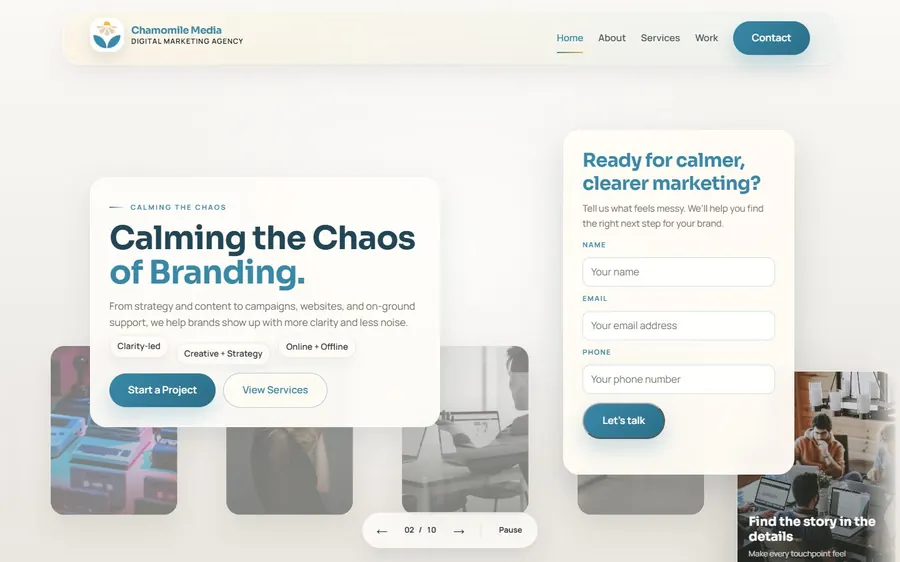
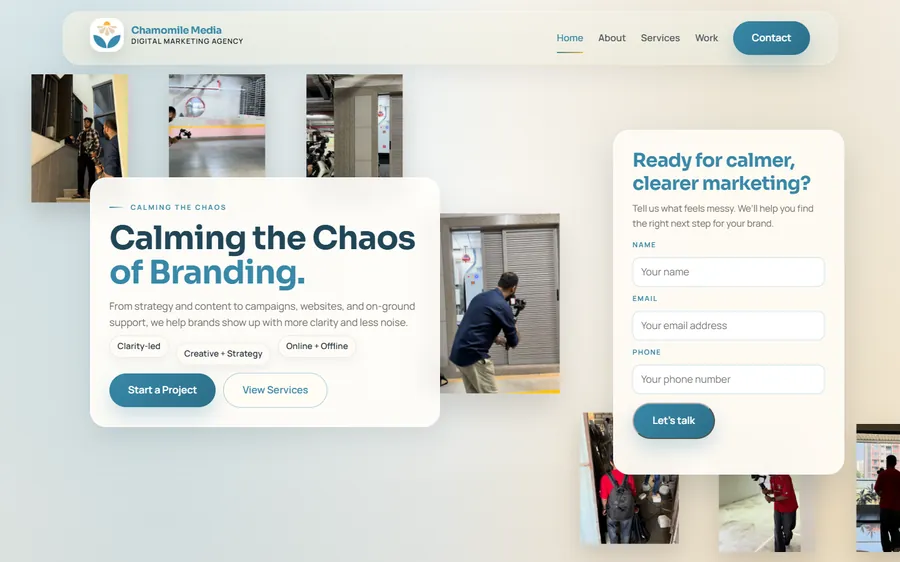
Chamomile Media: new screenshot and description for reworked homepage

diff --git a/index.html b/index.html
@@ -182,7 +182,7 @@
               <em class="status">In progress</em>
               <span>HTML / CSS / JS / Netlify</span>
               <h3>Chamomile Media</h3>
-              <p>Website for a digital marketing agency: a 3D gallery tunnel, client carousel, services and work pages, and an enquiry flow that writes leads to Google Sheets. Launching soon.</p>
+              <p>Website for a digital marketing agency: a hero photo carousel from real shoots, playable video formats, a client logo wall, and an enquiry flow that writes leads to Google Sheets. Launching soon.</p>
               <div class="build-links">
                 <a href="https://github.com/Raj-128/chamomile-media" target="_blank" rel="noopener noreferrer">GitHub <i class="ri-github-line"></i></a>
               </div>

diff --git a/README.md b/README.md
@@ -27,7 +27,7 @@ Personal portfolio of Raj Patil, Full-Stack Developer. It showcases client websi
 Portfolio and ordering site for a 3D and wallpaper studio: 3D wallpaper corridor, instant price estimates, Google sign-in, MFA admin, protected catalogue and print-request flow. Vite, Node.js, SQLite, GSAP.
 
 ### Chamomile Media — in progress ([code](https://github.com/Raj-128/chamomile-media))
-Digital marketing agency website: 3D gallery tunnel, client carousel, services and work pages, and an enquiry flow writing leads to Google Sheets.
+Digital marketing agency website: hero photo carousel from real shoots, playable video formats, client logo wall, and an enquiry flow writing leads to Google Sheets.
 
 ### DocuMind ([live demo](https://documind-zgo1.onrender.com/) · [code](https://github.com/Raj-128/DocuMind))
 RAG chatbot: upload a PDF, ask questions, get context-aware answers, summaries and key points. Django, FAISS, LangChain, Groq.
